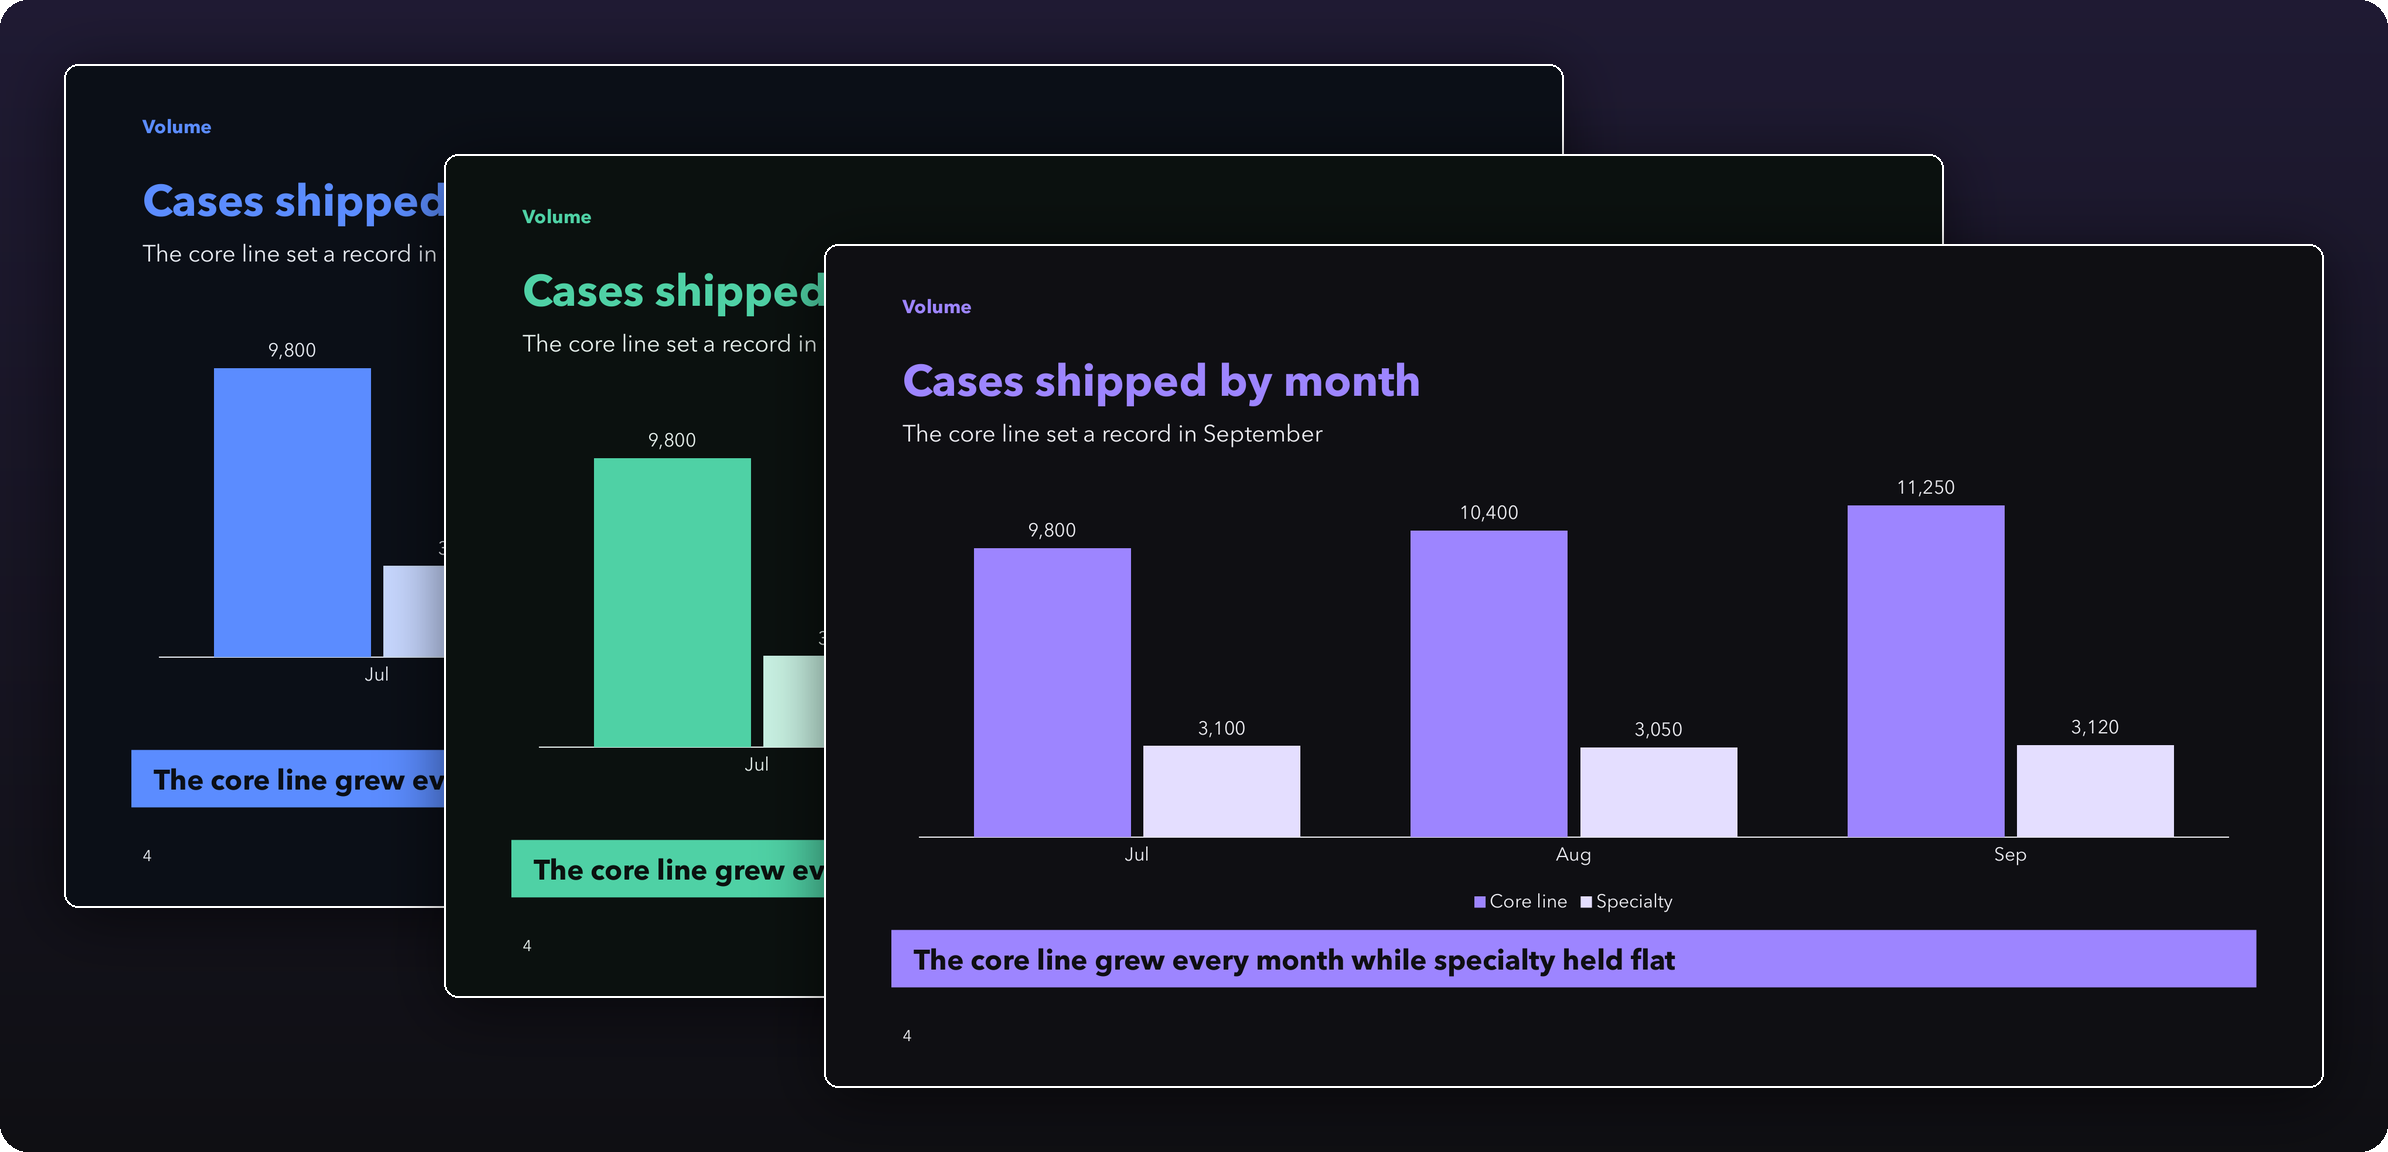
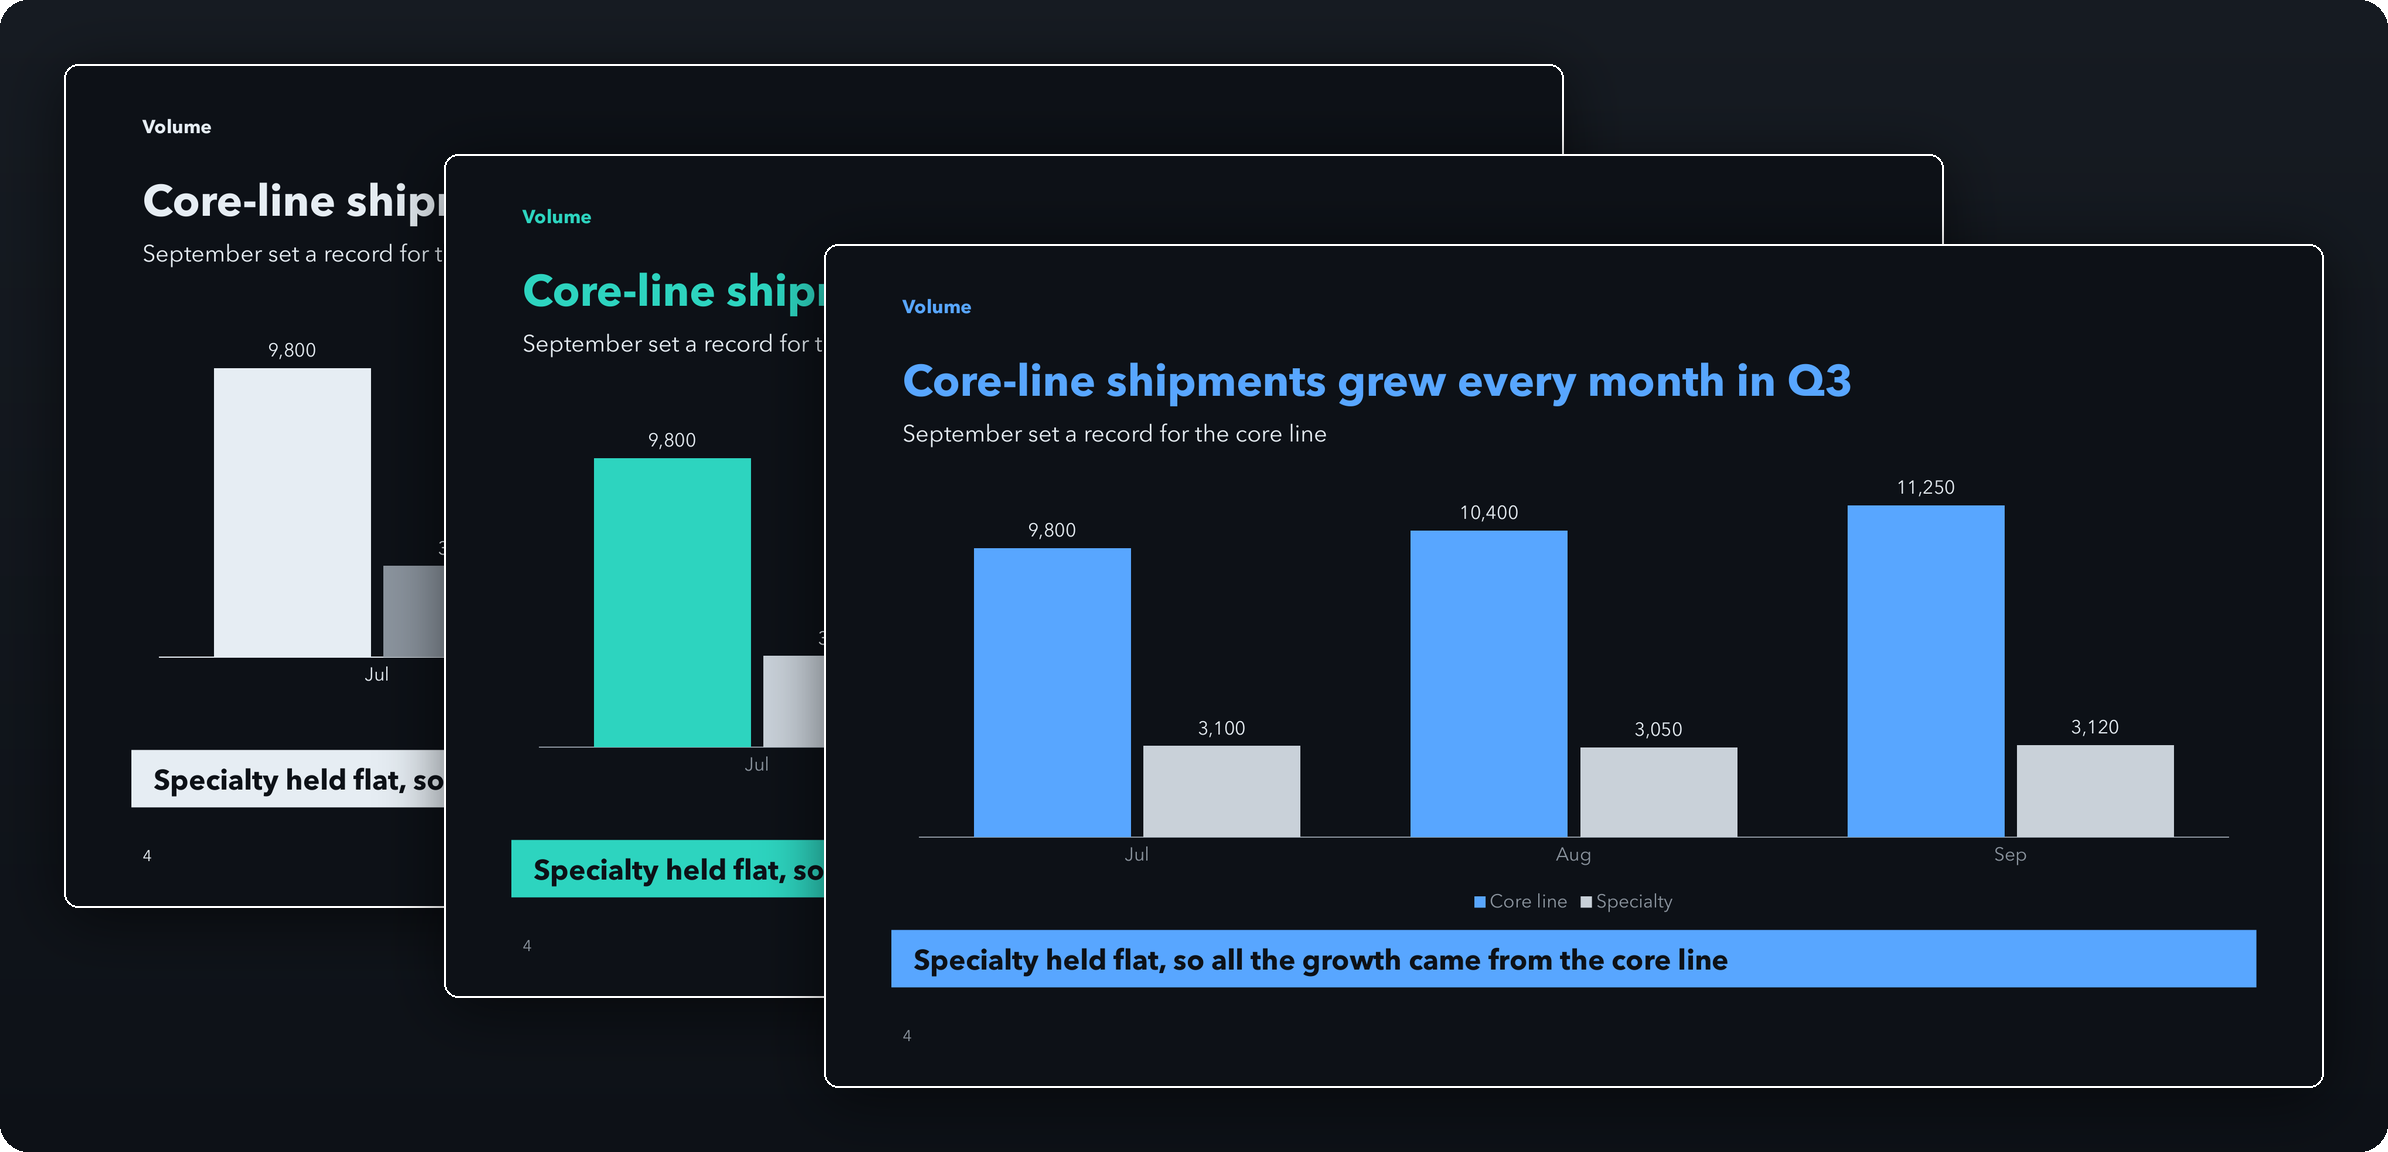
README images in standard dark palettes (GitHub-style blue, teal, and white and gray on one neutral near-black), and plain slide text in the README example, the showcase deck and the Cubicle 9 review deck: titles state their point, every line is a full sentence, and no X-not-Y lines

diff --git a/scripts/readme_images.py b/scripts/readme_images.py
@@ -2,7 +2,7 @@
 
 Generates three dark kits from the Cubicle 9 demo brand (its fonts and layouts, a dark palette each), renders
 slides from its review deck and the showcase deck in them with LibreOffice at twice the default resolution, and
-writes docs/images/hero.png (three review slides in the violet kit, fanned) and docs/images/brands.png (the
+writes docs/images/hero.png (three review slides in the blue kit, fanned) and docs/images/brands.png (the
 showcase's chart slide, the README example's third slide, in the three kits, fanned), each on a dark panel.
 Run it after any change to the generator, the layouts or the renderer, and commit the images with that change.
 """
@@ -23,20 +23,19 @@ from deck_builder.cli import main as cli
 REPO = Path(__file__).resolve().parent.parent
 FIXTURES = REPO / "tests" / "fixtures" / "demo-brands"
 BASE = "cubicle-nine"  # the demo brand the dark kits take their fonts, layouts and assets from
-# The dark kits' palettes. Text on a primary-color fill takes the background color, so each primary is light
-# enough for dark text, and the accent is a pale tint of it so a chart's second series stays calm.
+# The dark kits' palettes: one neutral near-black ground with a standard accent each. Text on a primary-color
+# fill takes the background color, so each primary is light enough for dark text, and a light gray accent keeps
+# a chart's second series neutral.
+NEUTRALS = {"ink": "E6EDF3", "muted": "8B949E", "surface": "161B22", "background": "0D1117"}
 DARK = {
-    "dark-blue": {"primary": "5B8CFF", "accent": "C7D7FF", "ink": "E8ECF3", "muted": "64748B",
-                  "surface": "151B26", "background": "0B0F17"},
-    "dark-mint": {"primary": "4FD1A5", "accent": "C9F2E3", "ink": "E6F0EC", "muted": "64756E",
-                  "surface": "141C19", "background": "0B110F"},
-    "dark-violet": {"primary": "9D85FF", "accent": "E4DEFF", "ink": "EDEDF2", "muted": "6B6B7B",
-                    "surface": "1A1A21", "background": "0F0F13"},
+    "dark-mono": {**NEUTRALS, "primary": "E6EDF3", "accent": "8B949E", "muted": "6E7681"},
+    "dark-teal": {**NEUTRALS, "primary": "2DD4BF", "accent": "C9D1D9"},
+    "dark-blue": {**NEUTRALS, "primary": "58A6FF", "accent": "C9D1D9"},
 }
-BRANDS = ("dark-blue", "dark-mint", "dark-violet")  # brands.png back to front, the hero's kit in front
+BRANDS = ("dark-mono", "dark-teal", "dark-blue")  # brands.png back to front, the hero's kit in front
 CHART = 4  # the showcase's chart slide
-HERO = (11, 13, 9)  # review-deck slides in the violet kit, back to front: a table, three lessons, a bar chart
-PANEL = ("1F1A33", "0F0F13")  # the panel's gradient, top to bottom
+HERO = (11, 13, 9)  # review-deck slides in the blue kit, back to front: a table, three changes, a bar chart
+PANEL = ("161B22", "0D1117")  # the panel's gradient, top to bottom
 DPI = "192"
 RATIO = 9 / 16  # slide height over width
 RADIUS = 14
@@ -55,7 +54,7 @@ def dark_kit(slug: str, tmp: Path) -> Path:
     brand = yaml.safe_load((folder / "brand.yaml").read_text())
     brand["slug"] = slug
     brand["palette"] = DARK[slug]
-    brand["theme_colors"].update({"accent4": "5EEAD4", "accent5": "F5A9C9", "accent6": "9898A6", "hlink": "accent"})
+    brand["theme_colors"].update({"accent4": "3FB950", "accent5": "D29922", "accent6": "A371F7", "hlink": "accent"})
     brand["fonts"]["body"] = dict(brand["fonts"]["heading"])
     brand["icons"]["default_color"] = "primary"
     brand["generate"].pop("logo_on_master", None)  # the logos are drawn for a light background

diff --git a/README.md b/README.md
@@ -21,7 +21,7 @@
 <br>
 
 <p align="center">
-  <img src="docs/images/hero.png" width="100%" alt="Three slides from one deck in a dark brand kit with violet accents, fanned out on a dark panel. At the back, a table of ten work packages; in the middle, three lessons on violet labels; in front and whole, a bar chart of each work package's variance against budget, titled Three work packages ran over; five came in under, with a takeaway band across the bottom.">
+  <img src="docs/images/hero.png" width="100%" alt="Three slides from one deck in a dark brand kit with blue accents, fanned out on a dark panel. At the back, a table of ten work packages; in the middle, three changes for phase two on blue labels; in front and whole, a bar chart of each work package's variance against budget, titled Power and data ran furthest over budget, with a takeaway band across the bottom.">
 </p>
 <p align="center"><sub>Slides from one deck in a dark brand kit. The chart is a native PowerPoint chart, and every word is still editable.</sub></p>
 
@@ -74,38 +74,36 @@ kicker: Q3 review
 
 ## Dumbder Nifftlin Paper Co. Q3 review
 layout: title
-subtitle: Volume, delivery and the plan for Q4
+subtitle: Volume grew in Q3, and Q4 adds three services
 
-## Three bets for Q4
+## Q4 adds three services
 layout: cards-3
-kicker: The plan
+kicker: Q4 plan
 label1: Monthly invoicing
 footer1: "Target: 40 accounts"
 label2: Same-day delivery
 footer2: "Target: 95% same-day"
 label3: Recycled reporting
 footer3: "Target: 12 accounts"
-takeaway: The three bets add about 9% to Q4 revenue
+takeaway: They add about 9% to Q4 revenue
 
 ### body1
-- One invoice a month
-- Pilot with ten accounts
-- All accounts by December
+- Accounts get one invoice a month
+- Every account has it by December
 
 ### body2
-- North region in October
-- Two new evening routes
-- Every order tracked
+- The north region starts in October
+- Customers track every order
 
 ### body3
-- **Recycled** share on invoices
-- A quarterly summary
+- Invoices show the **recycled** share
+- Accounts get a quarterly summary
 
-## Cases shipped by month
+## Core-line shipments grew every month in Q3
 layout: chart
 kicker: Volume
-subtitle: The core line set a record in September
-takeaway: The core line grew every month while specialty held flat
+subtitle: September set a record for the core line
+takeaway: Specialty held flat, so all the growth came from the core line
 
 ```chart
 type: column
@@ -128,7 +126,7 @@ Field values are YAML, so put quotes around any value with `: ` in it. This exam
 The deck holds only content, and its `brand:` line names the kit that holds the design. Change that line, or pass `--brand <slug>`, and the same content builds in a different design:
 
 <p align="center">
-  <img src="docs/images/brands.png" width="100%" alt="The chart slide from the example, Cases shipped by month, built in three dark brand kits and fanned out on a dark panel: blue at the back, mint in the middle, and violet in front, each with its title, column chart and takeaway band in the kit's color.">
+  <img src="docs/images/brands.png" width="100%" alt="The chart slide from the example, Core-line shipments grew every month in Q3, built in three dark brand kits and fanned out on a dark panel: white and gray at the back, teal in the middle, and blue in front, each with its title, column chart and takeaway band in the kit's color.">
 </p>
 <p align="center"><sub>The chart slide from the example, built in three brand kits.</sub></p>
 

diff --git a/CHANGELOG.md b/CHANGELOG.md
@@ -36,7 +36,7 @@ All notable changes to this project are listed here. The format follows [Keep a 
 - A budget issue on a slide's text names the other layouts that hold the text as written, and what moving there drops, and `BUDGET_LINES` says how many characters it's over. The fixes for the budget codes now move text to a layout with room before cutting, and cut only whole sentences, since cutting words to fit is what turns slide text into fragments.
 - A field's wrapped lines against its box decide whether text fits. Where a field has a line budget and the text fits its lines, `BUDGET_CHARS`, `BUDGET_BULLETS` and `BUDGET_BULLET_CHARS` warn instead of failing, since they're rougher estimates; a render test confirms such text renders with no overflow in each demo brand. A field with no line budget (an adopted kit's) keeps them as errors.
 - A build that would replace a `.pptx` saved by hand since it was built stops with `OUTPUT_EDITED` and the way forward: front matter `output: <name>-v2.pptx`, or `build -o`, with `--force` left to the user. `check --render` says when nothing was built or rendered, and the agents report that as "Failed".
-- README: shorter and easier to scan, with two large images in place of the slide grids and contact sheet: three slides from one deck in a dark kit, and the example's chart slide in three dark kits. `scripts/readme_images.py` generates the dark kits from the Cubicle 9 demo brand and draws them.
+- README: shorter and easier to scan, with two large images in place of the slide grids and contact sheet: three slides from one deck in a dark kit, and the example's chart slide in three dark kits. `scripts/readme_images.py` generates the dark kits from the Cubicle 9 demo brand and draws them. The example's slides, and the demo slides the images show, follow `docs voice`: every title states its point and every line is a full sentence.
 - README, Updating: restart every open Claude Code session after a pull, in the clone too, since a session keeps the agent and skill files it started with.
 - A deck build takes fewer agent turns: on the same brief, the builder's first pass went from 11 turns to 5 and the validator's from 6 to 4, with the validator still catching a mismatched image. The builder reads the brand, the docs and the sources in one turn, writes the final wording once, goes straight to `check` with render (which returns the same issues a plain `check` does), and changes nothing after its last render. The validator reads in two batches, and when no slide moved it opens only the changed slides' renders. Each stage gets one send-back instead of two. The main agent leaves the docs and slide images to the subagents and saves the topics the decomposer and storyteller need to files instead of pasting them into their prompts. A brand kit's test deck fills each field to its budget, so it passes `check` the first time.
 - `BUDGET_LINES` counts inline `code` at the code font's width, which is wider than the body font's, so a line with code no longer passes the check and then overflows.

diff --git a/tests/fixtures/demo-brands/decks/cubicle-nine/review/deck.md b/tests/fixtures/demo-brands/decks/cubicle-nine/review/deck.md
@@ -93,7 +93,7 @@ Source: crew timesheets from the payroll export, all three trades, August 1 to O
 layout: two-col
 kicker: Delivery
 subtitle: What worked, on the left, and what we would change, on the right
-takeaway: Both near-misses came from deliveries, not from work on site
+takeaway: Both near-misses came from deliveries, and the work on site ran to plan
 
 ### left
 - **Weekend-only work** meant no tenant lost a workday in eleven weekends
@@ -104,8 +104,8 @@ takeaway: Both near-misses came from deliveries, not from work on site
 ### right
 - **The furniture order** went in two weeks late and slipped the hand-off by four days
 - **Lift bookings** clashed with another tenant's move on September 13
-- Order furniture at survey sign-off, not after the floor plan is final
-- Book the goods lift for all eleven weekends at the start
+- We'll order furniture at survey sign-off, before the floor plan is final
+- We'll book the goods lift for all eleven weekends at the start
 
 Notes:
 Drawn from the crew debrief on October 30 and the tenant interviews in the week after hand-over.
@@ -114,11 +114,11 @@ Drawn from the crew debrief on October 30 and the tenant interviews in the week 
 layout: section
 kicker: Part 2
 
-## Three work packages ran over; five came in under
+## Power and data ran furthest over budget
 layout: chart
 kicker: Cost
-subtitle: Variance against budget by work package, in thousands; negative is under budget
-takeaway: The net result is 6,000 under a budget of 1.24 million
+subtitle: Each bar is a work package's variance in thousands, with savings to the left of zero
+takeaway: The refit closed 6,000 under its 1.24 million budget
 
 ```chart
 type: bar
@@ -152,11 +152,11 @@ series:
 Notes:
 Source: the cost ledger at close, October 31, grouped by the categories in the July budget.
 
-## Ten work packages finished within 1% of budget
+## Seven of ten packages came in at or under budget
 layout: table
 kicker: Cost
-subtitle: Budget and actual cost by work package, in thousands
-takeaway: Power and data ran 18 over; savings on strip-out and furniture covered it
+subtitle: The table gives budget and actual cost by work package, in thousands
+takeaway: Strip-out and desk savings covered the 18,000 overrun on power and data
 
 | Work package | Budget | Actual | Variance | Status |
 |---|---|---|---|---|
@@ -198,10 +198,10 @@ right-heading: Soap Club, floor 4
 ### right-logo
 ![Soap Club logo](assets/soap-club-logo.png)
 
-## Three lessons carry into phase two
+## Phase two changes when we order, book and survey
 layout: bands-3
 kicker: Lessons
-subtitle: Each lesson has an owner and a change to the phase-two plan
+subtitle: Each change has an owner in the phase-two plan
 label1: Order early
 label2: Book the building
 label3: Ask the tenants

diff --git a/tests/fixtures/demo-brands/showcase/deck.md b/tests/fixtures/demo-brands/showcase/deck.md
@@ -9,49 +9,47 @@ kicker: Q3 review
 
 ## {{company}} Q3 review
 layout: title
-subtitle: Volume, delivery and the plan for Q4
+subtitle: Volume grew in Q3, and Q4 adds three services
 
 ## Agenda
 layout: agenda
 
 - Volume and what drove it
-- Three bets for Q4
+- New services for Q4
 - Risks and margins
 - Partners and next steps
 
-## Three bets for Q4
+## Q4 adds three services
 layout: cards-3
-kicker: The plan
+kicker: Q4 plan
 label1: Monthly invoicing
 footer1: "Target: 40 accounts"
 label2: Same-day delivery
 footer2: "Target: 95% same-day"
 label3: Recycled reporting
 footer3: "Target: 12 accounts"
-takeaway: The three bets add about 9% to Q4 revenue
+takeaway: They add about 9% to Q4 revenue
 
 ### body1
-- One invoice a month
-- Pilot with ten accounts
-- All accounts by December
+- Accounts get one invoice a month
+- Every account has it by December
 
 ### body2
-- North region in October
-- Two new evening routes
-- Every order tracked
+- The north region starts in October
+- Customers track every order
 
 ### body3
-- **Recycled** share on invoices
-- A quarterly summary
+- Invoices show the **recycled** share
+- Accounts get a quarterly summary
 
 Notes:
 Targets from the Q4 operating plan. Invented figures for the demo fixtures.
 
-## {{unit}} shipped by month
+## Core-line shipments grew every month in Q3
 layout: chart
 kicker: Volume
-subtitle: The core line set a record in September
-takeaway: The core line grew every month while specialty held flat
+subtitle: September set a record for the core line
+takeaway: Specialty held flat, so all the growth came from the core line
 
 ```chart
 type: column
